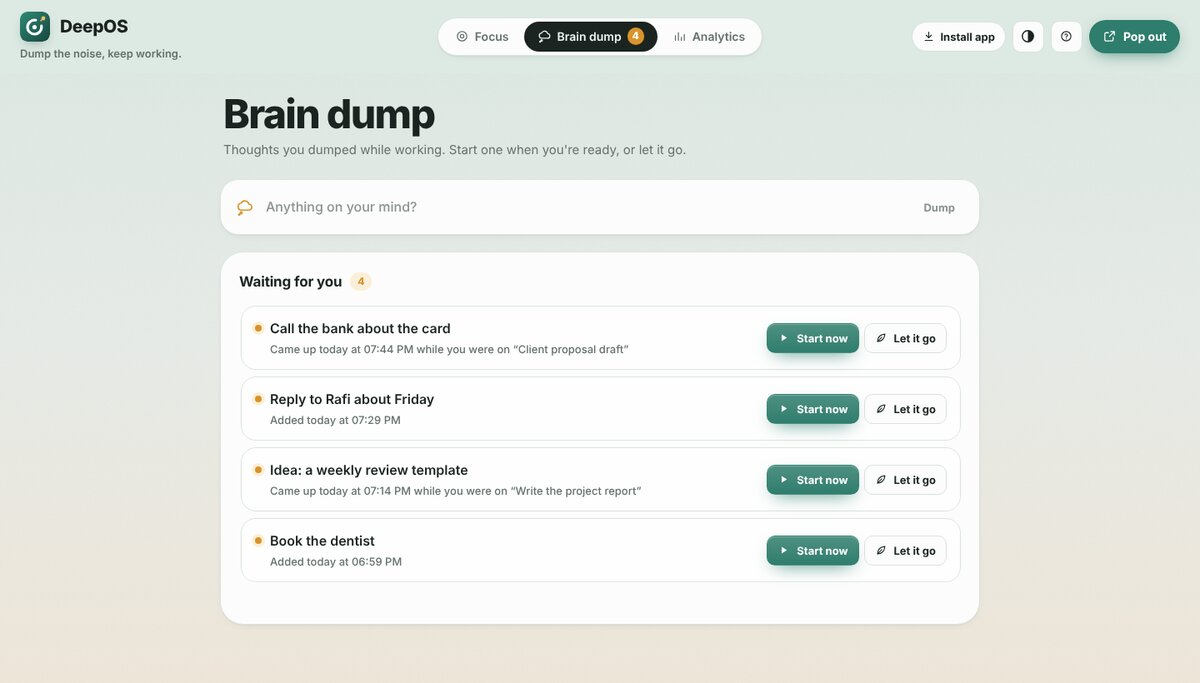
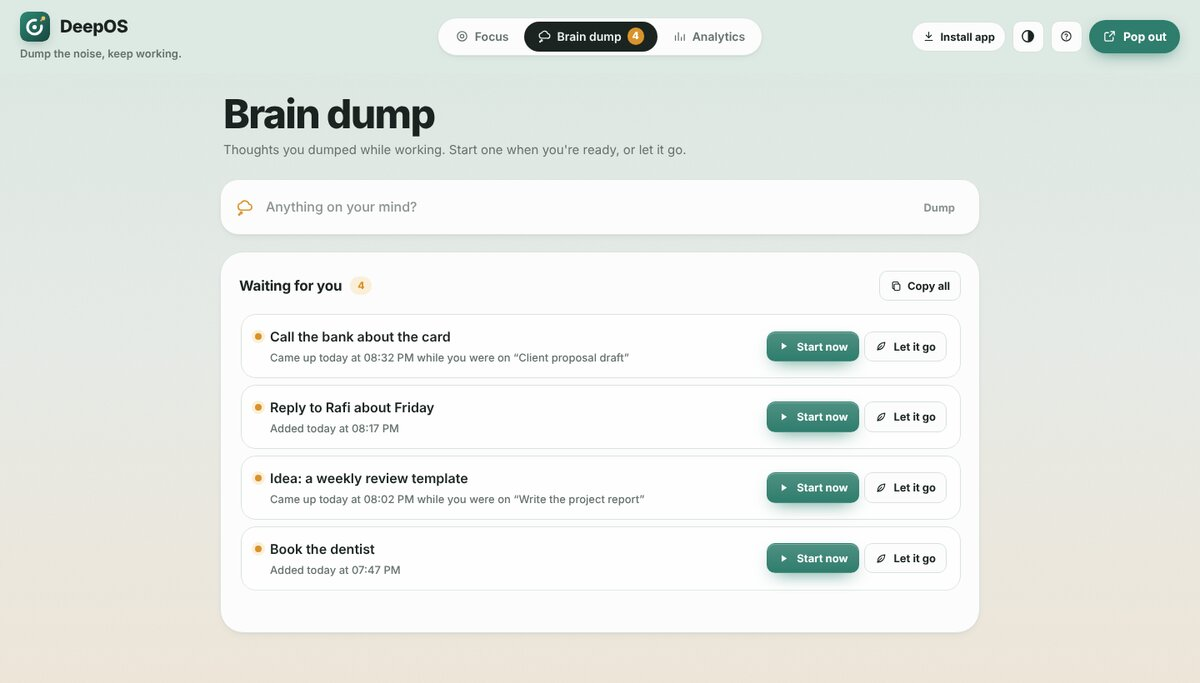
Brain dump: Copy all. Footer: Feedback link
- Copy all puts waiting thoughts on the clipboard as a list, ready to paste into any to-do app.
- A Feedback link in the footer opens an email to the maker.

Claude-Session: https://claude.ai/code/session_01RPEeNiWPaepkLJj8Ye5Smc

diff --git a/src/components/InboxView.tsx b/src/components/InboxView.tsx
@@ -1,7 +1,7 @@
 import { useState } from "react";
 import { dispatch, useStore, type InboxItem } from "../lib/store";
 import { dayKey, dayLabel, formatTime } from "../lib/time";
-import { LeafIcon, PlayIcon, ThoughtIcon } from "./Icons";
+import { CopyIcon, LeafIcon, PlayIcon, ThoughtIcon } from "./Icons";
 import { toast } from "./Toast";
 
 export function InboxView({ goFocus }: { goFocus: () => void }) {
@@ -70,6 +70,23 @@ export function InboxView({ goFocus }: { goFocus: () => void }) {
           <div className="column-head">
             <h2 id="waiting-heading">Waiting for you</h2>
             {fresh.length > 0 && <span className="pill sun">{fresh.length}</span>}
+            {fresh.length > 0 && (
+              <button
+                type="button"
+                className="ghost small copy-all"
+                onClick={async () => {
+                  const text = fresh.map((i) => `- ${i.text}`).join("\n");
+                  try {
+                    await navigator.clipboard.writeText(text);
+                    toast(`Copied ${fresh.length} thought${fresh.length > 1 ? "s" : ""}. Paste them into any to-do app.`);
+                  } catch {
+                    toast("Couldn't copy. Your browser blocked the clipboard.");
+                  }
+                }}
+              >
+                <CopyIcon /> Copy all
+              </button>
+            )}
           </div>
           {fresh.length ? (
             <ItemList items={fresh} onAct={act} />

diff --git a/src/App.tsx b/src/App.tsx
@@ -1,7 +1,7 @@
 import { useCallback, useEffect, useState } from "react";
 import { FocusView } from "./components/FocusView";
 import { HistoryView } from "./components/HistoryView";
-import { AutoThemeIcon, DocIcon, GithubIcon, HelpIcon, InfoIcon, LinkedInIcon, XLogoIcon, MoonIcon, SunIcon, FocusIcon, HistoryIcon, KeyboardIcon, LockIcon, LogoMark, PopoutIcon, ShieldIcon, ThoughtIcon } from "./components/Icons";
+import { AutoThemeIcon, DocIcon, MailIcon, GithubIcon, HelpIcon, InfoIcon, LinkedInIcon, XLogoIcon, MoonIcon, SunIcon, FocusIcon, HistoryIcon, KeyboardIcon, LockIcon, LogoMark, PopoutIcon, ShieldIcon, ThoughtIcon } from "./components/Icons";
 import { InboxView } from "./components/InboxView";
 import { InstallButton } from "./components/InstallButton";
 import { PrivacyPage, TermsPage } from "./components/LegalPage";
@@ -242,6 +242,9 @@ export default function App() {
           </a>
           <a href="#terms">
             <DocIcon /> Terms
+          </a>
+          <a href="mailto:kanokhossain.tech@gmail.com?subject=DeepOS%20feedback">
+            <MailIcon /> Feedback
           </a>
           <a href="https://github.com/kanokHossain/deep_os">
             <GithubIcon /> Source

diff --git a/src/components/Icons.tsx b/src/components/Icons.tsx
@@ -134,6 +134,12 @@ export const HelpIcon = (p: SVGProps<SVGSVGElement>) => (
     <path d="M9.6 9.3a2.5 2.5 0 0 1 4.86.83c0 1.67-2.46 2.2-2.46 3.6M12 17h.01" />
   </svg>
 );
+export const MailIcon = (p: SVGProps<SVGSVGElement>) => (
+  <svg {...base(p)}>
+    <rect x="3" y="5" width="18" height="14" rx="2" />
+    <path d="m3 7 9 6 9-6" />
+  </svg>
+);
 export const InfoIcon = (p: SVGProps<SVGSVGElement>) => (
   <svg {...base(p)}>
     <circle cx="12" cy="12" r="9" />

diff --git a/src/styles.css b/src/styles.css
@@ -922,3 +922,6 @@ h1 { font-weight: 800; letter-spacing: -0.035em; }
 .overrun-inline .overrun-actions { flex-direction: row; gap: 6px; }
 .overrun-inline .overrun-actions button { padding: 7px 8px; font-size: 12.5px; border-radius: 10px; }
 .overrun-inline .overrun-cancel { margin-top: 4px; padding: 0; font-size: 12px; }
+
+.copy-all { margin-left: auto; display: inline-flex; align-items: center; gap: 6px; }
+.copy-all svg { width: 15px; height: 15px; }

diff --git a/README.md b/README.md
@@ -34,7 +34,7 @@ So I built a tool for my own workday: pick one task, start the timer, and when a
 
 - **Timer-first home.** The task, the dial and the lengths are on one screen. Nothing else in the way.
 - **Quick welcome.** First-time visitors get a one-screen explanation of how it works. Reopen it any time with the **?** button in the header.
-- **Brain dump.** Every thought remembers when it came up and which task you were on. Start it when you're ready, or let it go.
+- **Brain dump.** Every thought remembers when it came up and which task you were on. Start it when you're ready, or let it go. **Copy all** puts your waiting thoughts on the clipboard for any to-do app.
 - **Pop out.** A small floating window with the timer, the session lengths and its own dump box stays on top of your other apps, so you always see what you're working on. Works in Chrome, Edge, Brave and other Chrome-based browsers on desktop.
 - **Analytics.** Today's focused time, a 7-day chart, and every past session with a **Resume** button that fills in the task and length for you.
 - **Accurate timer.** Time is calculated from timestamps, so background tabs, sleep and refreshes don't skew it. Paused time isn't counted.
